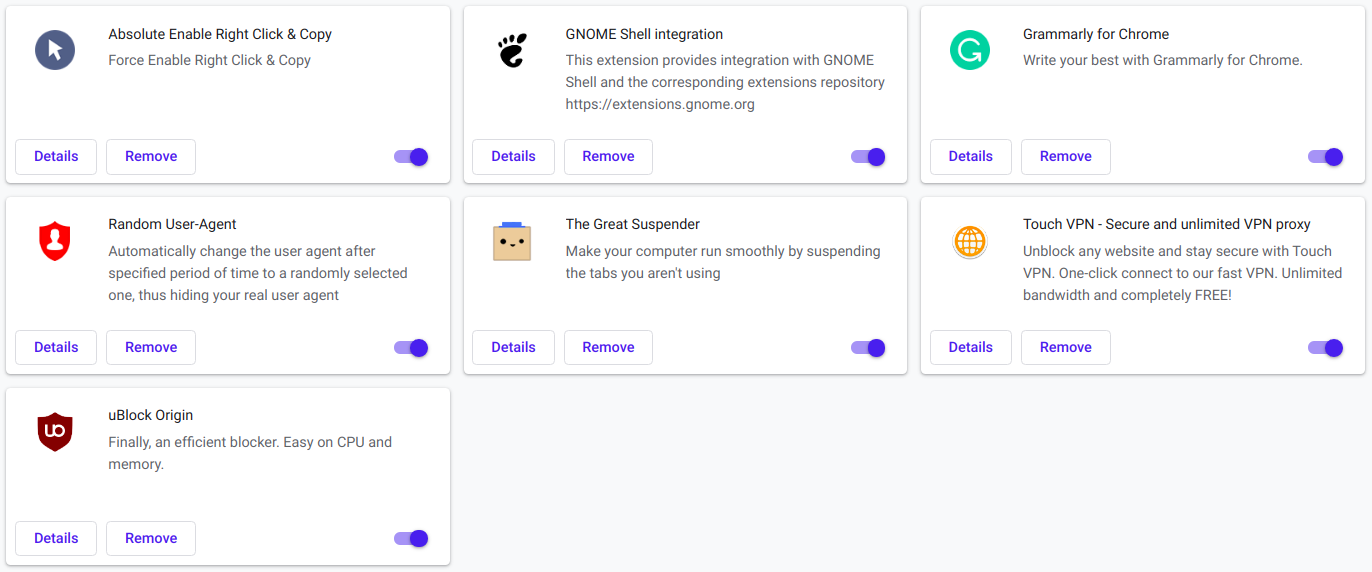
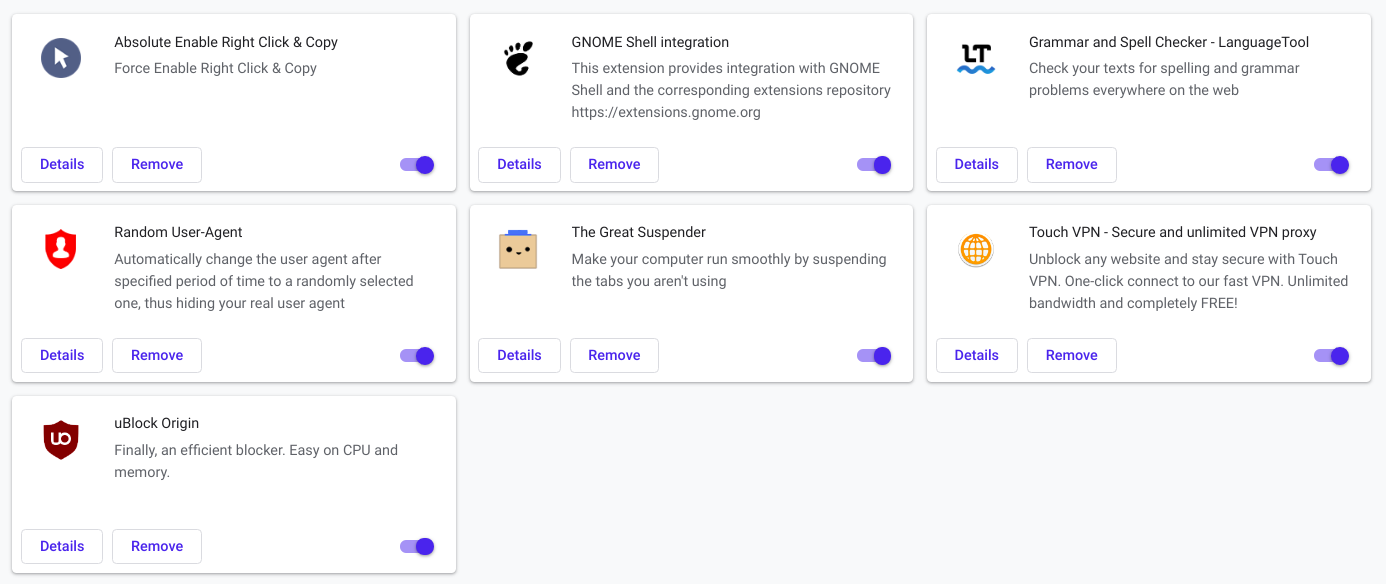
Changed Extensions

diff --git a/README.md b/README.md
@@ -22,8 +22,8 @@ This is an extensive Guide on the set of things I use. I have two computers one 
 - **[Gnome Tweaks & the ones I use](https://github.com/themagicalmammal/howtopopbuntu#gnome-tweaks--the-ones-i-use) -> [Minimize Button and Button Placement](https://github.com/themagicalmammal/howtopopbuntu#1-minimize-button-and-button-placement), [Battery Percentage](https://github.com/themagicalmammal/howtopopbuntu#2-battery-percentage), [Optimizing Font](https://github.com/themagicalmammal/howtopopbuntu#3-optimizing-font), [Activity Hot Corner](https://github.com/themagicalmammal/howtopopbuntu#4-activity-hot-corner-and-format-time)**
 - **[Custom Resolution](https://github.com/themagicalmammal/howtopopbuntu#custom-resolution-with-xrandr) -> [Resolution goes away](https://github.com/themagicalmammal/howtopopbuntu#problem-the-resolution-goes-away-after-a-reboot), [Refresh Rates](https://github.com/themagicalmammal/howtopopbuntu#problem-what-about-other-refresh-rates-), [Removing Custom Resolution](https://github.com/themagicalmammal/howtopopbuntu#problem-how-to-get-rid-of-custom-resolution), [Hybrid Graphics Bug](https://github.com/themagicalmammal/howtopopbuntu#bug-problems-regarding-hybrid-graphics-switching)**
 ## [Preferred Apps](https://github.com/themagicalmammal/howtopopbuntu#3-preferred-apps)
-- **[Snap Vs Flatpak](https://github.com/themagicalmammal/howtopopbuntu#snap-vs-flatpak-package-managers-except-aptdpkg)**
-- **[Browser](https://github.com/themagicalmammal/howtopopbuntu#browser) -> [Chrome](https://github.com/themagicalmammal/howtopopbuntu#1-chrome), [Vivaldi](https://github.com/themagicalmammal/howtopopbuntu#2-vivaldi), [Brave](https://github.com/themagicalmammal/howtopopbuntu#3-brave), [Opera](https://github.com/themagicalmammal/howtopopbuntu#4-opera), [Firefox](https://github.com/themagicalmammal/howtopopbuntu#1-firefox), [TOR](https://github.com/themagicalmammal/howtopopbuntu#2-tor)**
+- **[Snap Vs Flatpak](https://github.com/themagicalmammal/howtopopbuntu#snap-vs-flatpak-package-managers-except-apt-dpkg)**
+- **[Browser](https://github.com/themagicalmammal/howtopopbuntu#browser) -> [Chrome](https://github.com/themagicalmammal/howtopopbuntu#1-chrome), [Vivaldi](https://github.com/themagicalmammal/howtopopbuntu#2-vivaldi), [Brave](https://github.com/themagicalmammal/howtopopbuntu#3-brave), [Opera](https://github.com/themagicalmammal/howtopopbuntu#4-opera), [Firefox](https://github.com/themagicalmammal/howtopopbuntu#1-firefox), [TOR](https://github.com/themagicalmammal/howtopopbuntu#2-tor), [Extensions](https://github.com/themagicalmammal/howtopopbuntu#extensions-i-use)**
 - **[Email Client](https://github.com/themagicalmammal/howtopopbuntu#email-client)-> [Evolution](https://github.com/themagicalmammal/howtopopbuntu#1-evolution), [Thunderbird](https://github.com/themagicalmammal/howtopopbuntu#2-thunderbird), [MailSpring](https://github.com/themagicalmammal/howtopopbuntu#3-mailspring)**
 - **[Video Tools](https://github.com/themagicalmammal/howtopopbuntu#video-tools) -> [VLC](https://github.com/themagicalmammal/howtopopbuntu#1-vlc), [OBS Studio](https://github.com/themagicalmammal/howtopopbuntu#2-obs-studio)**
 - **[Audio Tools](https://github.com/themagicalmammal/howtopopbuntu#audio-tools) -> [PulseAudio](https://github.com/themagicalmammal/howtopopbuntu#1-pulseaudio), [Audacity](https://github.com/themagicalmammal/howtopopbuntu#2-audacity), [Ardour](https://github.com/themagicalmammal/howtopopbuntu#3-ardour)**
@@ -78,7 +78,7 @@ Go through this, because this can be a very helpful step. I am currently using b
 There are two ways of getting swap (You can choose which is better) <br />
 - General Method - Creating a swap partition (Linux-swap), Now to do this you need to understand the importance of swap, if you have a low RAM device you need a huger swap like if you have 2GB ram you should get 4 to 6 GB of swap & optimise your swap ratio to a higher value. So, if you have a higher ram you need a lower swap. So, according to my numbers for a ram: swap should be as follows, 2 & lower:6, 4:6, 8:4, 16 & above:2. Also, you have to adjust the swappiness property (given below).<br />
 
-**[BRTFS] -> [Snapshots](https://fedoramagazine.org/btrfs-snapshots-backup-incremental/) don't work on Brtfs if we create a swap file in that partition. So Brtfs users should either stick with the general method or create a swap file in a different partition.**
+**[BRTFS] - [Snapshots](https://fedoramagazine.org/btrfs-snapshots-backup-incremental/) don't work on Brtfs if we create a swap file in that partition. So Brtfs users should either stick with the general method or create a swap file in a different partition.**
 - Swap File - Well this is a relatively new concept but you can create a swap file post installation & use it. You don't need to dedicate some fixed amount of memory to it as it does on Linux-swap, that's why it is also space-efficient. And the best part is you can resize this or remove this whenever you want to.<br />
 
 **Post Installation Steps** <br />
@@ -195,7 +195,7 @@ You can format time according to what you need. I only use the time, so I got ri
 If your display supports a higher refresh rate, go for it because higher refresh rate displays make the moving content look and feel smoother and snappier.<br /> <br />
 ![set-of-refreshrates](https://github.com/themagicalmammal/howtopopbuntu/blob/master/Screenshots/set-of-refreshrates.png)
 
-#### Steps ->
+#### Steps -
 **1. Check xrandr**  <br />
 You can know the name of your display here generally it is eDP-1 if is hybrid it can be eDP-1-1<br /> <br />
 ```bash
@@ -323,13 +323,13 @@ To remove Firefox (Not Recommended)
 ```bash
 sudo apt remove --purge firefox* -y && sudo apt autoremove -y
 ```
-**Extensions I use on my Chrome** <br />
+#### Extensions I use
 Generally, these extensions exist for almost all browsers. <br />
 ![Chromeextensions](https://github.com/themagicalmammal/howtopopbuntu/blob/master/Screenshots/Chromeextensions.png)
 1. **[Absolute Enable](https://chrome.google.com/webstore/detail/absolute-enable-right-cli/jdocbkpgdakpekjlhemmfcncgdjeiika?hl=en)** - Force Enable Right Click & Copy on disabled websites.
 2. **[uBlock Origin](https://chrome.google.com/webstore/detail/ublock-origin/cjpalhdlnbpafiamejdnhcphjbkeiagm?hl=en)** - uBlock Origin is not an "ad blocker", it's a wide-spectrum content blocker with CPU and memory efficiency as a primary feature.
 3. **[GNOME Shell integration](https://chrome.google.com/webstore/detail/gnome-shell-integration/gphhapmejobijbbhgpjhcjognlahblep?hl=en)** - This extension provides integration with GNOME Shell and the corresponding extensions repository, make it easy to add extensions via your browser.
-4. **[Grammarly](https://chrome.google.com/webstore/detail/grammarly-for-chrome/kbfnbcaeplbcioakkpcpgfkobkghlhen?hl=en)** - Helps when you write something for fixing mistakes, helps me complete writing stuff fast.
+4. **[LanguageTool](https://chrome.google.com/webstore/detail/grammar-and-spell-checker/oldceeleldhonbafppcapldpdifcinji)** - Check your texts for spelling and grammar problems everywhere on the web.
 5. **[Random User-Agent](https://chrome.google.com/webstore/detail/random-user-agent/einpaelgookohagofgnnkcfjbkkgepnp?hl=en)** - Automatically change the user agent after a specified period to a randomly selected one, thus hiding your real user agent
 6. **[The Great Suspender](https://chrome.google.com/webstore/detail/the-great-suspender/klbibkeccnjlkjkiokjodocebajanakg?hl=en)** - Make your computer run smoothly by suspending the tabs you aren't using
 7. **[Touch VPN](https://chrome.google.com/webstore/detail/touch-vpn-secure-and-unli/bihmplhobchoageeokmgbdihknkjbknd/related?hl=en-US)** - Simple setup. Relatively nominal footprint, as far as my utils have determined at this early stage and consuming a minor spot in memory.
@@ -354,7 +354,7 @@ sudo apt install thunderbird -y
 ```
 #### 3. [MailSpring](https://getmailspring.com/)
 Get the [deb file](https://github.com/Foundry376/Mailspring/releases) and try installing it. <br />
-**If it throws gvfs dependency error. Follow these Steps ->**
+**If it throws gvfs dependency error. Follow these Steps -**
 1. Install these libraries
 ```bash
 sudo apt install libsecret-1-dev gconf2 python2 python-is-python2 -y
@@ -421,22 +421,22 @@ sudo apt remove --purge libreoffice* -y && sudo apt autoremove -y
 <br /> <br />
 
 ### Graphic tools
-#### 1. GIMP
+#### 1. [GIMP](https://www.gimp.org/)
 It is a free and open-source Image Editor. You can further enhance your productivity with many customization options and 3rd party plugins.
 ```bash
 sudo apt install gimp -y
 ```
-#### 2. Krita
+#### 2. [Krita](https://krita.org/en/)
 An open-source painting program. It is made by artists that want to see affordable art tools for everyone.
 ```bash
 sudo apt install krita -y
 ```
-#### 3. Blender
+#### 3. [Blender](https://www.blender.org/)
 It is the free and open-source 3D creation suite. It supports the entirety of the 3D pipeline—modeling, rigging, animation, simulation, rendering, compositing and motion tracking, even video editing and game creation.
 ```bash
 sudo apt install blender -y
 ```
-#### 4. Inkscape
+#### 4. [Inkscape](https://inkscape.org/)
 Inkscape is a free and open-source vector graphics editor used to create vector images, primarily in Scalable Vector Graphics (SVG) format. Here you can be an illustrator, designer, web designer, or just someone who needs to create some vector imagery.
 ```bash
 sudo apt install inkscape -y
@@ -643,7 +643,7 @@ Optimize the speed of repeat keys. You can also disable Cursor blinking. <br /> 
 ### Disable annoying Keyring
 #### This provides security for browsers on an autologin-based system. (Easy way to understand it)
 If you have an autologin system, whenever you open a browser (except firefox) or Github-desktop, the system asks for a key. <br /> <br />
-**Steps to Disable it ->**
+**Steps to Disable it -**
 ```settings
 App password & keys > Login > Change Password > Type your Current Pass > Continue > Continue with Empty Pass > Make unencrypted
 ```
@@ -740,7 +740,7 @@ The built-in extensions I use are - <br /> <br />
 
 ### Disabling Pop Shop on Boot
 Pop Shop always opens on the startup of the system there is a way to stop that. This also helps in saving some ram. <br /> <br />
-**Steps ->**
+**Steps -**
 1. Edit App center daemon from opening it at start
 ```bash
 sudo nano /usr/share/applications/io.elementary.appcenter-daemon.desktop
@@ -939,7 +939,7 @@ I use **Steven Black** Ad-Hosts for ad-blocking the whole system without any oth
 I use **Unified hosts + fake news + gambling + porn** <br />
 
 #### Q. How to?
-**Ans. Steps ->**
+**Ans. Steps -**
 1. Get a [host](https://github.com/StevenBlack/hosts)
 2. Save it to Downloads
 3. Then
@@ -960,13 +960,13 @@ I use Bleachbit because it is good to remove unnecessary junk from your computer
 ```bash
 sudo apt install bleachbit -y
 ```
-**Steps ->** BleachBit (root) > Select every option (except free disk) > **Clean** <br /> <br />
+**Steps -** BleachBit (root) > Select every option (except free disk) > **Clean** <br /> <br />
 ![bleachbit](https://github.com/themagicalmammal/howtopopbuntu/blob/master/Screenshots/bleachbit.png)
 **Note**:- After doing this the first boot might be slow don't worry it's perfectly normal.
 
 ### Night Light
 Night Light mode is simply made to remove some lights which hinder our sleep cycle. As researchers have found that at night if a certain set of colors interact with our eyes it doesn't let the eye rest making it *unsleepy* that's why we use a night light.<br /> <br />
-**Steps ->** Settings > Display > Night light <br />
+**Steps -** Settings > Display > Night light <br />
 *You can also select the timing which fits your sleep cycle.*<br /> <br />
 ![nightlight](https://github.com/themagicalmammal/howtopopbuntu/blob/master/Screenshots/nightlight.png)
 
@@ -1024,7 +1024,7 @@ Icons - [Tela circle icon](https://www.pling.com/p/1359276/) <br />
 ## 7. Bonus
 ### <img src="https://github.com/themagicalmammal/howtopopbuntu/blob/master/icons/Among_Us.svg" width="20" height="20" /> Among Us, if Steam Glitches
 #### For everyone following this method, Among Us is available for everyone in Steam for Linux. I prefer to get it from Steam since it is stable & gets updates. But, on old hardware, Steam seems to glitch a lot, so this is an alternative. Please try not to use this if you do not need to because this is pirated, and in no way, I want to encourage piracy.
-#### Steps ->
+#### Steps -
 1. Install [Wine](https://github.com/themagicalmammal/howtopopbuntu#2-wine)
 2. Download [Among Us](http://www.mediafire.com/file/czz4ctxxcauy2t8/Among.Us.v2020.9.9s.zip/file)
 3. To run it type
